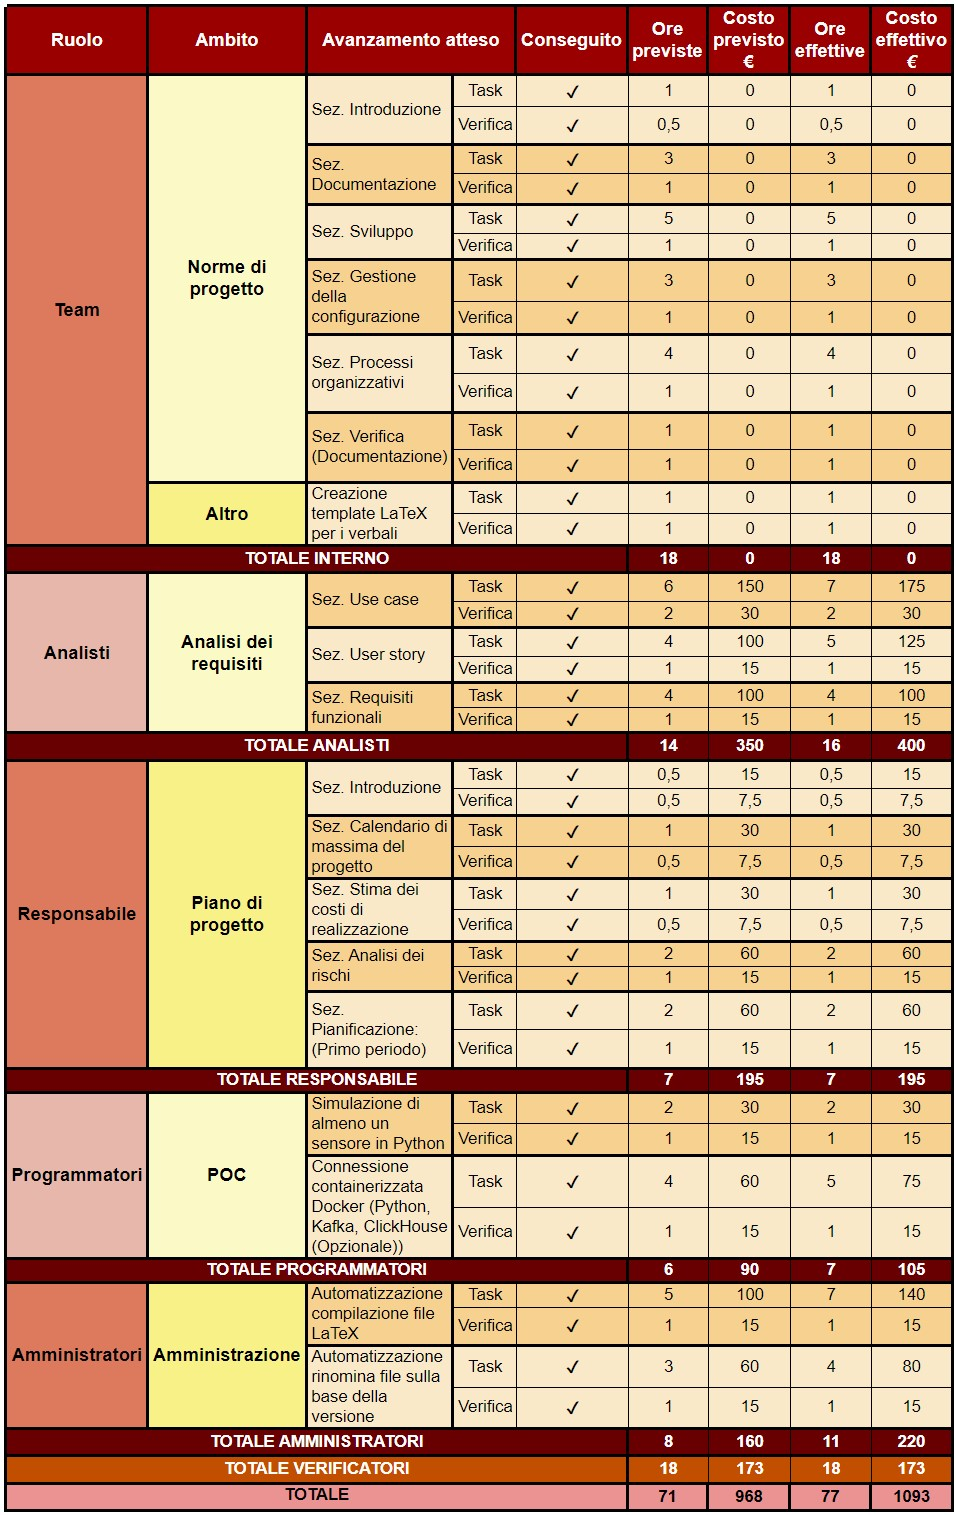
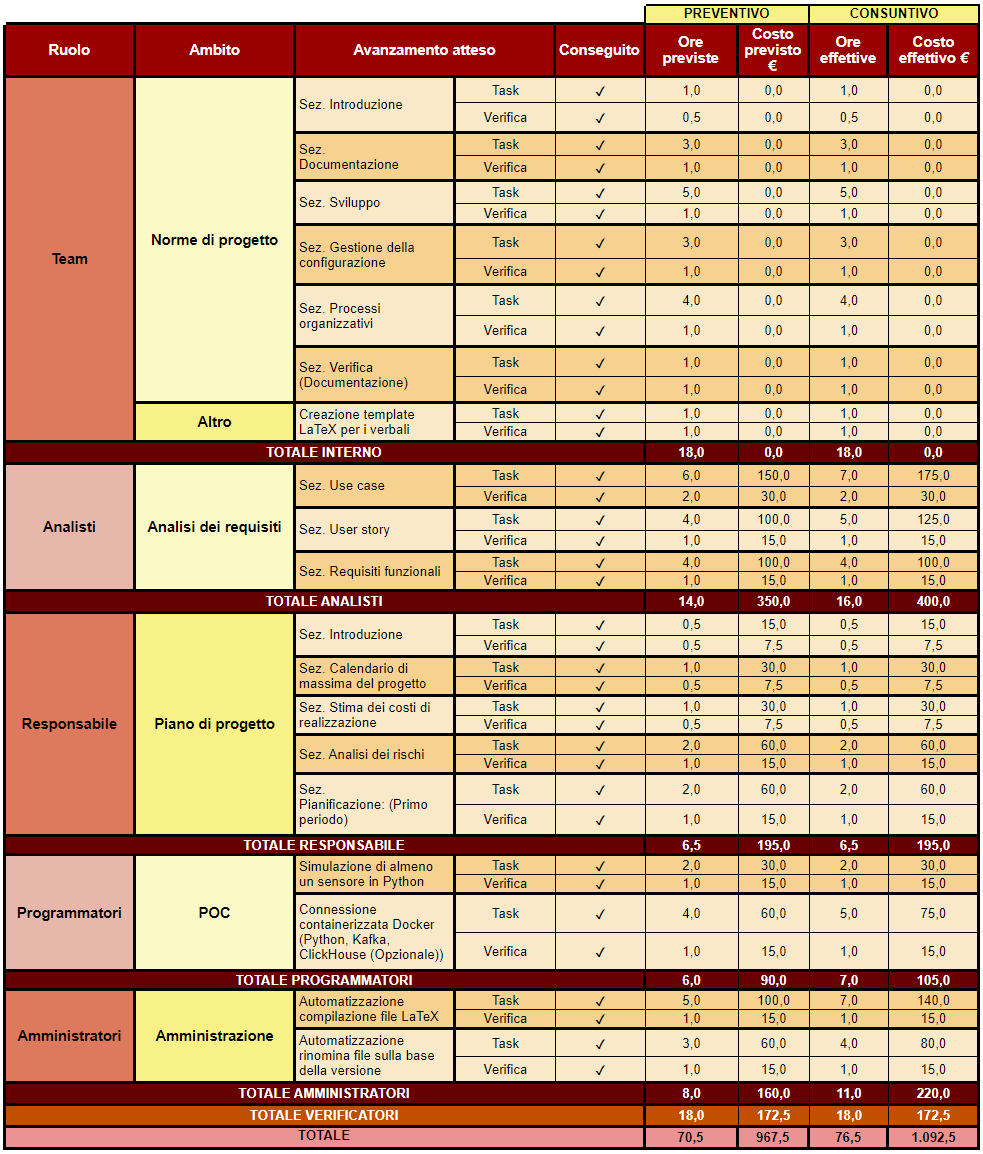
secondo periodo ma mancano i grafici degli orari dei membri

diff --git a/RTB/Sottosezioni/Piano_di_progetto/Requirements_technology_baseline.tex b/RTB/Sottosezioni/Piano_di_progetto/Requirements_technology_baseline.tex
@@ -125,3 +125,135 @@ Per le attività registrate nei costi, sono stati assegnati i seguenti ruoli:
     \caption{Istogramma consuntivo della ripartizione oraria dei ruoli - primo periodo}
     \label{fig:CD1}
 \end{figure}
+
+
+%________________________-SECONDO PERIODO-_____________________________
+
+
+\subsubsection{Secondo periodo  24/11/2023 - 08/12/2023}
+Durante il secondo periodo, il nostro team ha impegnato risorse per proseguire e quasi completare la definizione delle norme nel documento "Norme di progetto".
+
+Nel corso del colloquio SAL con la proponente, è stato stabilito l'obiettivo di concludere entro la fine del secondo sprint la fase relativa al Proof of Concept (POC), focalizzata sull'integrazione dell'ultimo elemento nello stack tecnologico, "Grafana", e sulla visualizzazione di grafici delle misurazioni dei simulatori sviluppati.
+
+È soddisfacente constatare che tutte le richieste della proponente sono state risolte entro i tempi concordati, portando così a termine lo sviluppo del POC.
+
+Successivamente a un colloquio con il Prof. Cardin e al suo reindirizzamento sui casi d'uso, gli analisti hanno ridefinito parte di essi, causando un arretramento nel progresso verso la conclusione della RTB.
+
+L'amministratore ha redatto il glossario di progetto e definito gli standard e le metriche di qualità di processo e prodotti nel documento "Piano di qualifica".
+
+\subsubsection*{Rischi occorsi, impatto, mitigazione} 
+
+Nel corso del secondo periodo, si sono presentate le seguenti problematiche:
+\begin{itemize}
+    \item \textbf{Assenza di uno dei membri per 4 giorni - \ref{sec:ImpPersonali}}
+    \begin{itemize}
+        \item \textbf{Esito mitigazione:} 
+        L'azione di mitigazione adottata si è dimostrata efficace, senza suscitare proposte di modifiche.
+        \item \textbf{Impatto:}
+        Non sono emerse conseguenze significative; conformemente al processo di mitigazione, il responsabile ha ridistribuito i compiti del membro assente assegnandoli a ruoli con un carico lavorativo ridotto durante il periodo di assenza del membro.
+        \end{itemize}
+\end{itemize}
+
+\newpage
+\paragraph{Pianificazione attività divise per ruoli con consuntivo e preventivo orario e dei costi}\hspace{1pt}
+
+\begin{figure}[H]
+    \centering
+    \includegraphics[height=1.0\textwidth]{../Images/periodo2.PNG}
+    \caption{Primo periodo}
+    \label{fig:1periodo}
+\end{figure}
+
+Al termine del primo periodo, l'ammontare parziale totale del costo del progetto è \textbf{ 1563\euro\ } e sono state completate il \textbf{100\%} delle attività attese.
+
+\begin{figure}[ht]
+    \centering
+    \begin{minipage}[b]{0.45\textwidth}
+        \centering
+        \begin{tikzpicture}
+            \pie[
+                text=legend,
+                color={blue!50, red!80}, 
+                radius=2, 
+                line width=0pt
+            ]{12/Speso, 88/Rimanente}
+        \end{tikzpicture}
+        \caption{Grafico a torta del budget speso e rimanente preventivato nel secondo periodo}
+        \label{fig:GraficoTorta2}
+    \end{minipage}
+    
+    \vspace{1cm}
+
+    \begin{minipage}[b]{0.70\textwidth}
+        \centering
+        \includegraphics[width=0.7\textwidth]{../Images/avanzamento2Periodo.png}
+        \caption{Avanzamento dei lavori RTB - primo periodo}
+        \label{fig:AvRtb1}
+    \end{minipage}
+\end{figure}
+
+\subsubsection*{Preventivo e consuntivo orario per membro}
+Nel corso del secondo periodo, sono state impiegate ore per l'esecuzione di attività interne, come dettagliato nella tabella precedente. Tali ore non sono state incluse nei costi e per svolgerle è intervenuto il ruolo di amministratore.
+Per le attività registrate nei costi, sono stati assegnati i seguenti ruoli:
+
+\begin{itemize}
+    \item \textbf{Responsabile (Re):}
+          \begin{itemize}
+              \item L. Skenderi.
+          \end{itemize}
+    \item \textbf{Amministratore (Am):}
+          \begin{itemize}
+              \item A. Barutta.
+          \end{itemize}
+    \item \textbf{Analisti (An):}
+          \begin{itemize}
+              \item E. Hysa;
+              \item R. Smanio.
+          \end{itemize}
+    \item \textbf{Verificatore (Ve):}
+          \begin{itemize}
+              \item D. Diotto.
+              \item R. Smanio.
+          \end{itemize}
+    \item \textbf{Programmatori (Pr):}
+          \begin{itemize}
+              \item N. Preto;
+              \item F. Pozza.
+          \end{itemize}
+    \item \textbf{Progettista (Pt):}
+          \begin{itemize}
+              \item Nessuno.
+          \end{itemize}
+\end{itemize}
+
+\paragraph{Preventivo orario} \hspace{1pt}
+
+\begin{figure}[ht]
+    \centering
+    \includegraphics[width=0.9\textwidth]{../Images/preventivoOrario2Periodo.png}
+    \caption{Preventivo orario per membro - primo periodo}
+    \label{fig:Pv1}
+\end{figure}
+
+\begin{figure}[H]
+    \centering
+    \includegraphics[width=0.6\textwidth]{../Images/preventivoDivisioneRuoli1Periodo.png}
+    \caption{Istogramma preventivo della ripartizione oraria dei ruoli - primo periodo}
+    \label{fig:PvD1}
+\end{figure}
+
+\paragraph{Consuntivo orario } \hspace{1pt}
+
+\begin{figure}[ht]
+    \centering
+    \includegraphics[width=0.9\textwidth]{../Images/consuntivoOrario2Periodo.png}
+    \caption{Consuntivo orario per membro - primo periodo}
+    \label{fig:Cv1}
+\end{figure}
+
+\begin{figure}[H]
+    \centering
+    \includegraphics[width=0.6\textwidth]{../Images/consuntivoDivisioneRuoli1Periodo.png}
+    \caption{Istogramma consuntivo della ripartizione oraria dei ruoli - primo periodo}
+    \label{fig:CD1}
+\end{figure}

diff --git a/RTB/Sottosezioni/Piano_di_progetto/Rischi_previsti.tex b/RTB/Sottosezioni/Piano_di_progetto/Rischi_previsti.tex
@@ -29,7 +29,7 @@ La convenzione utilizzata per la codifica dei rischi è la seguente:
 \end{flushleft}
 
 \newpage
-\subsubsection{Impegni personali e accademici}
+\subsubsection{Impegni personali e accademici}\label{sec:ImpPersonali}
 \begin{table}[h]
     \centering
     \begin{tabularx}{\textwidth}{l>{\RaggedRight}X>{\RaggedRight}X>{\RaggedRight}X>{\RaggedRight}X}
